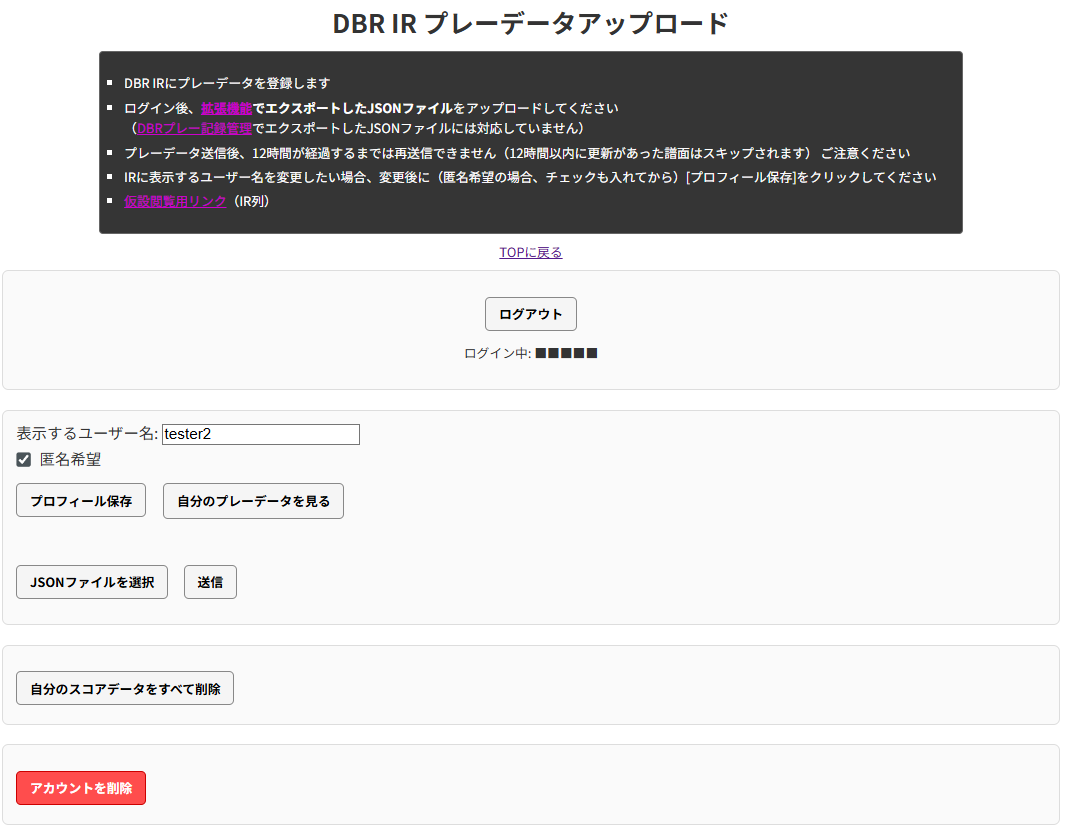
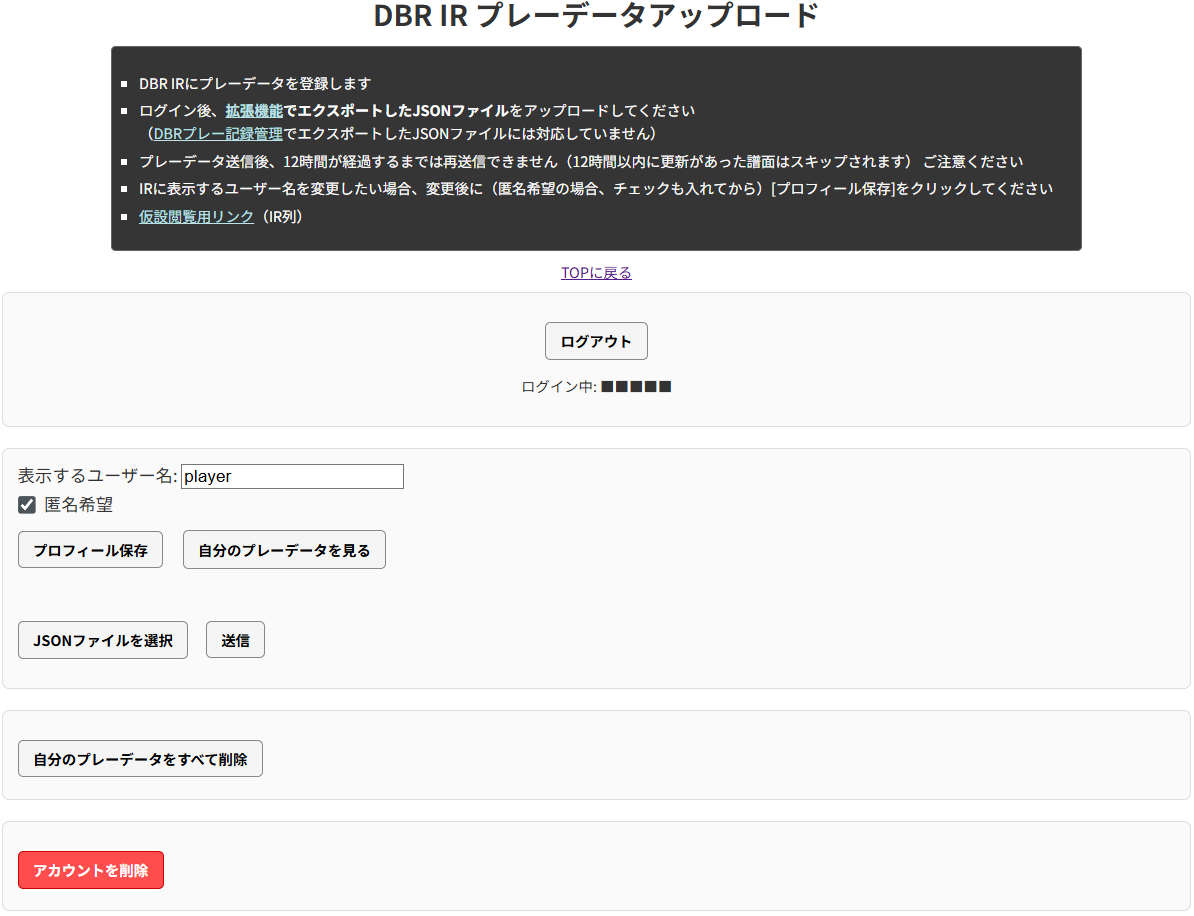
IR修正

diff --git a/dbr_ir_register.html b/dbr_ir_register.html
@@ -185,8 +185,8 @@
       
       <div class="top-section-box">
         <div class="authInput">
-          <input type="email" id="email" placeholder="メールアドレス"><br>
-          <input type="password" id="password" placeholder="パスワード"><br>
+          <input type="email" id="email" placeholder="メールアドレス" autocomplete="username"><br>
+          <input type="password" id="password" placeholder="パスワード" autocomplete="new-password"><br>
         </div>
         <button id="registerBtn">登録</button>
         <p><a href="dbr_ir_upload.html">ログインはこちら</a></p>

diff --git a/dbr_ir_upload.html b/dbr_ir_upload.html
@@ -177,8 +177,8 @@
 
         <div class="top-section-box">
           <div id="authInput">
-            <input type="email" id="email" placeholder="メールアドレス"><br>
-            <input type="password" id="password" placeholder="パスワード"><br>
+            <input type="email" id="email" placeholder="メールアドレス" autocomplete="username"><br>
+            <input type="password" id="password" placeholder="パスワード" autocomplete="current-password"><br>
           </div>
           <button id="loginBtn">ログイン</button>
           <button id="logoutBtn" style="display:none;">ログアウト</button>

diff --git a/dbralle_dan_experimental.html b/dbralle_dan_experimental.html
@@ -36,7 +36,7 @@
             <!-- ここに注意書きの枠を追加 -->
             <div class="notice-box">
                 <ul>
-                    <li>GASでスプレッドシートから自動生成せずサイトに生成後のjsonを置いて読み込んでいます</li>
+                    <li>GASでスプレッドシートから自動生成せずサイトに生成後のJSONを置いて読み込んでいます</li>
                     <li>実験用です <b>ＥＸＰＥＲＩＭＥＮＴＡＬ</b> ご留意ください</li>
                     <li>最新の表状況は反映されません TOPから目的の難易度表に飛んでください</li>
                     <li id="lastUpdated">難易度表データの最終生成日は です</li><br>

diff --git a/dbralle_dan_inf_experimental.html b/dbralle_dan_inf_experimental.html
@@ -36,7 +36,7 @@
             <!-- ここに注意書きの枠を追加 -->
             <div class="notice-box">
                 <ul>
-                    <li>GASでスプレッドシートから自動生成せずサイトに生成後のjsonを置いて読み込んでいます</li>
+                    <li>GASでスプレッドシートから自動生成せずサイトに生成後のJSONを置いて読み込んでいます</li>
                     <li>実験用です <b>ＥＸＰＥＲＩＭＥＮＴＡＬ</b> ご留意ください</li>
                     <li>最新の表状況は反映されません TOPから目的の難易度表に飛んでください</li>
                     <li id="lastUpdated">難易度表データの最終生成日は です</li><br>

diff --git a/dbralle_experimental.html b/dbralle_experimental.html
@@ -36,7 +36,7 @@
             <!-- ここに注意書きの枠を追加 -->
             <div class="notice-box">
                 <ul>
-                    <li>GASでスプレッドシートから自動生成せずサイトに生成後のjsonを置いて読み込んでいます</li>
+                    <li>GASでスプレッドシートから自動生成せずサイトに生成後のJSONを置いて読み込んでいます</li>
                     <li>実験用です <b>ＥＸＰＥＲＩＭＥＮＴＡＬ</b> ご留意ください</li>
                     <li>最新の表状況は反映されません TOPから目的の難易度表に飛んでください</li>
                     <li id="lastUpdated">難易度表データの最終生成日は です</li>

diff --git a/dbralle_inf_experimental.html b/dbralle_inf_experimental.html
@@ -36,7 +36,7 @@
             <!-- ここに注意書きの枠を追加 -->
             <div class="notice-box">
                 <ul>
-                    <li>GASでスプレッドシートから自動生成せずサイトに生成後のjsonを置いて読み込んでいます</li>
+                    <li>GASでスプレッドシートから自動生成せずサイトに生成後のJSONを置いて読み込んでいます</li>
                     <li>実験用です <b>ＥＸＰＥＲＩＭＥＮＴＡＬ</b> ご留意ください</li>
                     <li>最新の表状況は反映されません TOPから目的の難易度表に飛んでください</li>
                     <li id="lastUpdated">難易度表データの最終生成日は です</li>

diff --git a/dbralle_insane_experimental.html b/dbralle_insane_experimental.html
@@ -38,7 +38,7 @@
                 <ul>
                     <li>☆12.92を☆☆1とした難易度表です</li>
                     <li>管理側約一名が適正外まで作成したので、妥当性はないものとお考えください</li>
-                    <li>GASでスプレッドシートから自動生成せずサイトに生成後のjsonを置いて読み込んでいます</li>
+                    <li>GASでスプレッドシートから自動生成せずサイトに生成後のJSONを置いて読み込んでいます</li>
                     <li id="lastUpdated">難易度表データの最終生成日は です</li>
                 </ul>
             </div>

diff --git a/dbralle_misatei_experimental.html b/dbralle_misatei_experimental.html
@@ -36,7 +36,7 @@
             <!-- ここに注意書きの枠を追加 -->
             <div class="notice-box">
                 <ul>
-                    <li>GASでスプレッドシートから自動生成せずサイトに生成後のjsonを置いて読み込んでいます</li>
+                    <li>GASでスプレッドシートから自動生成せずサイトに生成後のJSONを置いて読み込んでいます</li>
                     <li>実験用です <b>ＥＸＰＥＲＩＭＥＮＴＡＬ</b> ご留意ください</li>
                     <li>最新の表状況は反映されません TOPから目的の難易度表に飛んでください</li>
                     <li id="lastUpdated">難易度表データの最終生成日は です</li>

diff --git a/dbralle_normal_experimental.html b/dbralle_normal_experimental.html
@@ -36,7 +36,7 @@
             <!-- ここに注意書きの枠を追加 -->
             <div class="notice-box">
                 <ul>
-                    <li>GASでスプレッドシートから自動生成せずサイトに生成後のjsonを置いて読み込んでいます</li>
+                    <li>GASでスプレッドシートから自動生成せずサイトに生成後のJSONを置いて読み込んでいます</li>
                     <li>実験用です <b>ＥＸＰＥＲＩＭＥＮＴＡＬ</b> ご留意ください</li>
                     <li>最新の表状況は反映されません TOPから目的の難易度表に飛んでください</li>
                     <li id="lastUpdated">難易度表データの最終生成日は です</li>

diff --git a/dbralle_old_experimental.html b/dbralle_old_experimental.html
@@ -36,7 +36,7 @@
             <!-- ここに注意書きの枠を追加 -->
             <div class="notice-box">
                 <ul>
-                    <li>GASでスプレッドシートから自動生成せずサイトに生成後のjsonを置いて読み込んでいます</li>
+                    <li>GASでスプレッドシートから自動生成せずサイトに生成後のJSONを置いて読み込んでいます</li>
                     <li>実験用です <b>ＥＸＰＥＲＩＭＥＮＴＡＬ</b> ご留意ください</li>
                     <li>最新の表状況は反映されません TOPから目的の難易度表に飛んでください</li>
                     <li id="lastUpdated">難易度表データの最終生成日は です</li>

diff --git a/dbralle_recommended_experimental.html b/dbralle_recommended_experimental.html
@@ -36,7 +36,7 @@
             <!-- ここに注意書きの枠を追加 -->
             <div class="notice-box">
                 <ul>
-                    <li>GASでスプレッドシートから自動生成せずサイトに生成後のjsonを置いて読み込んでいます</li>
+                    <li>GASでスプレッドシートから自動生成せずサイトに生成後のJSONを置いて読み込んでいます</li>
                     <li>実験用です <b>ＥＸＰＥＲＩＭＥＮＴＡＬ</b> ご留意ください</li>
                     <li>最新の表状況は反映されません TOPから目的の難易度表に飛んでください</li>
                     <li id="lastUpdated">難易度表データの最終生成日は です</li>